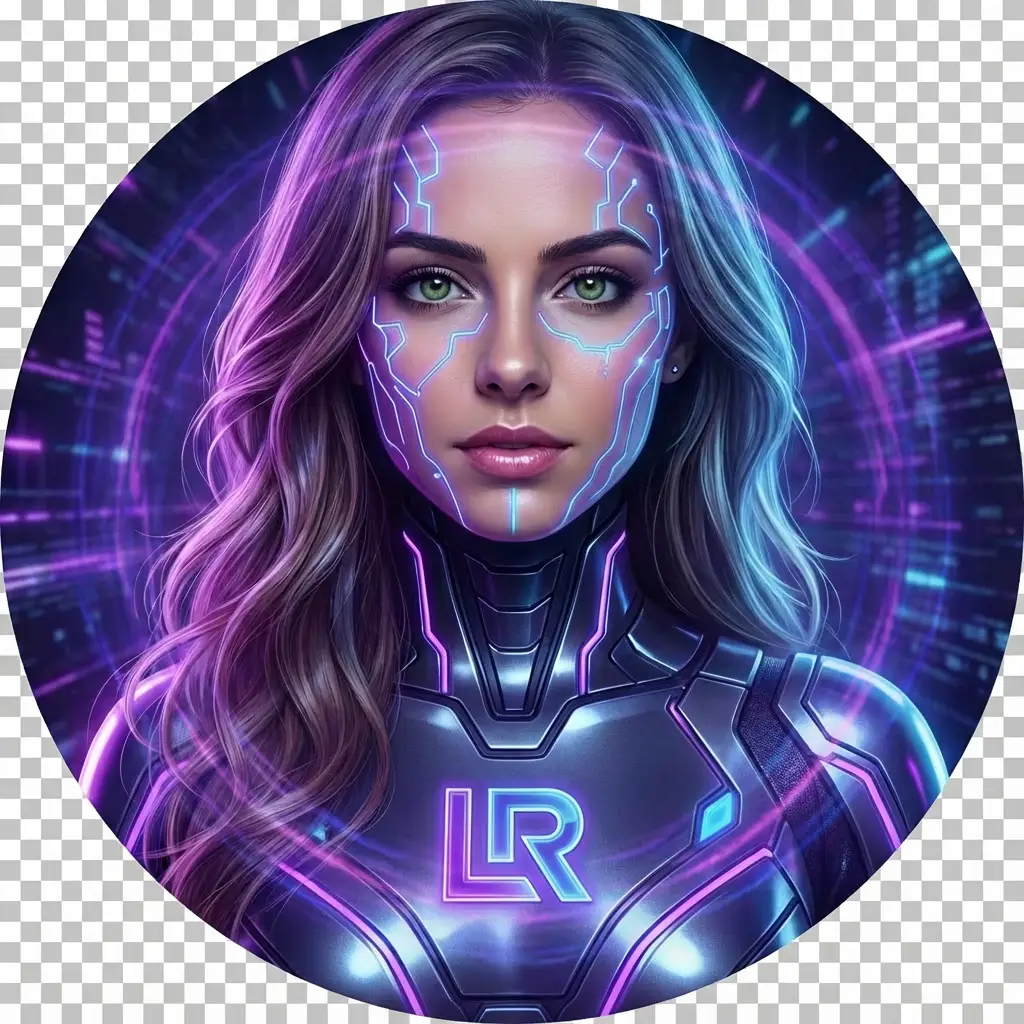
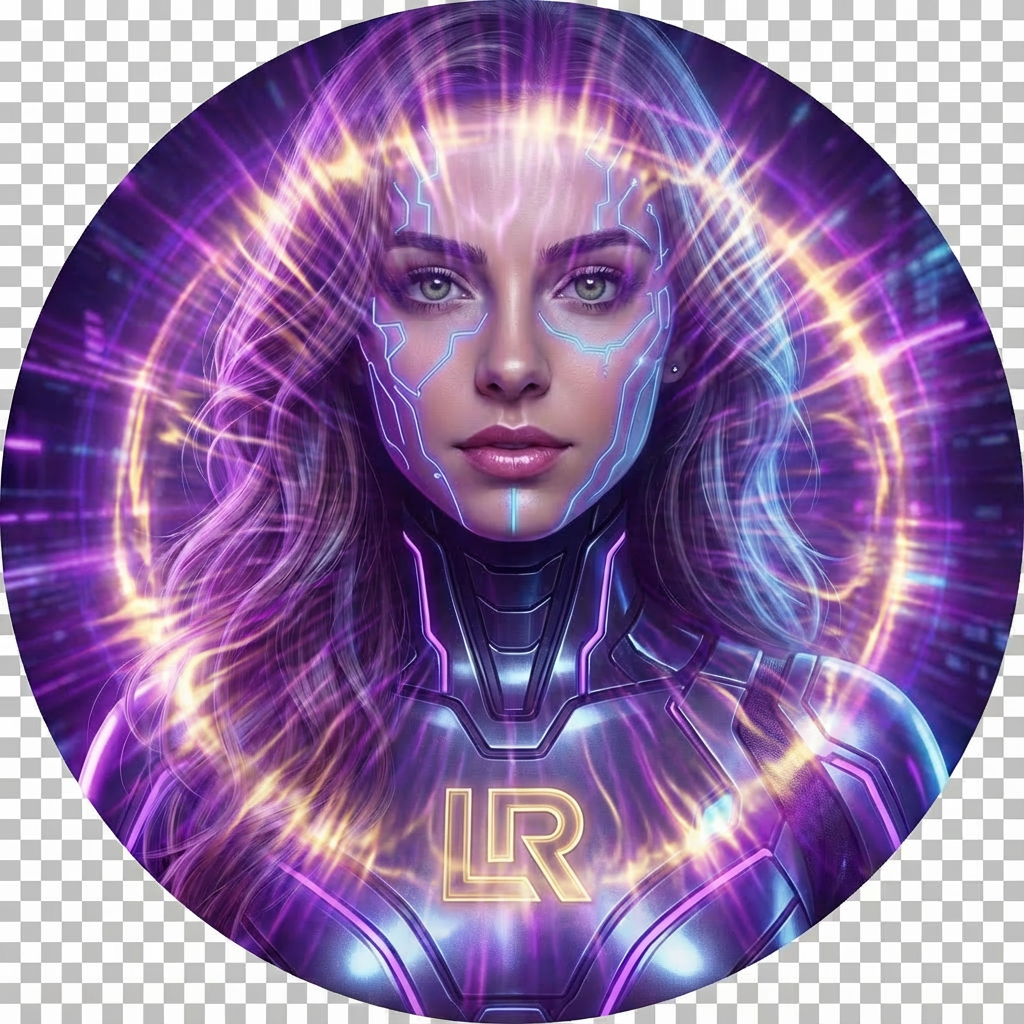
Update LINA image with golden energy rays and increase Fast Track box transparency

diff --git a/index.html b/index.html
@@ -454,7 +454,7 @@
                                                 </div>
                                                 <!-- Radial gradient -->
                                                 <div class="absolute flex items-center justify-center bottom-0 translate-y-1/2 left-1/2 -translate-x-1/2 pointer-events-none -z-10 h-full aspect-square" aria-hidden="true">
-                                                    <div class="absolute inset-0 translate-z-0 bg-purple-500 rounded-full blur-[120px] opacity-30"></div>
+                                                    <div class="absolute inset-0 translate-z-0 bg-purple-500 rounded-full blur-[120px] opacity-15"></div>
                                                     <div class="absolute w-1/4 h-1/4 translate-z-0 bg-purple-400 rounded-full blur-[40px]"></div>
                                                 </div>
     
@@ -490,7 +490,7 @@
                                             <div class="flex flex-col">
                                                 <!-- Radial gradient -->
                                                 <div class="absolute bottom-0 translate-y-1/2 left-1/2 -translate-x-1/2 pointer-events-none -z-10 w-1/2 aspect-square" aria-hidden="true">
-                                                    <div class="absolute inset-0 translate-z-0 bg-purple-500/20 rounded-full blur-[80px]"></div>
+                                                    <div class="absolute inset-0 translate-z-0 bg-purple-500/10 rounded-full blur-[80px]"></div>
                                                 </div>
                                                 <!-- Text -->
                                                 <div class="md:max-w-[480px] shrink-0 order-1 md:order-none p-6 pt-0 md:p-8">
@@ -514,7 +514,7 @@
                                             <div class="flex flex-col">
                                                 <!-- Radial gradient -->
                                                 <div class="absolute bottom-0 translate-y-1/2 left-1/2 -translate-x-1/2 pointer-events-none -z-10 w-1/2 aspect-square" aria-hidden="true">
-                                                    <div class="absolute inset-0 translate-z-0 bg-purple-500/20 rounded-full blur-[80px]"></div>
+                                                    <div class="absolute inset-0 translate-z-0 bg-purple-500/10 rounded-full blur-[80px]"></div>
                                                 </div>
                                                 <!-- Text -->
                                                 <div class="md:max-w-[480px] shrink-0 order-1 md:order-none p-6 pt-0 md:p-8">
